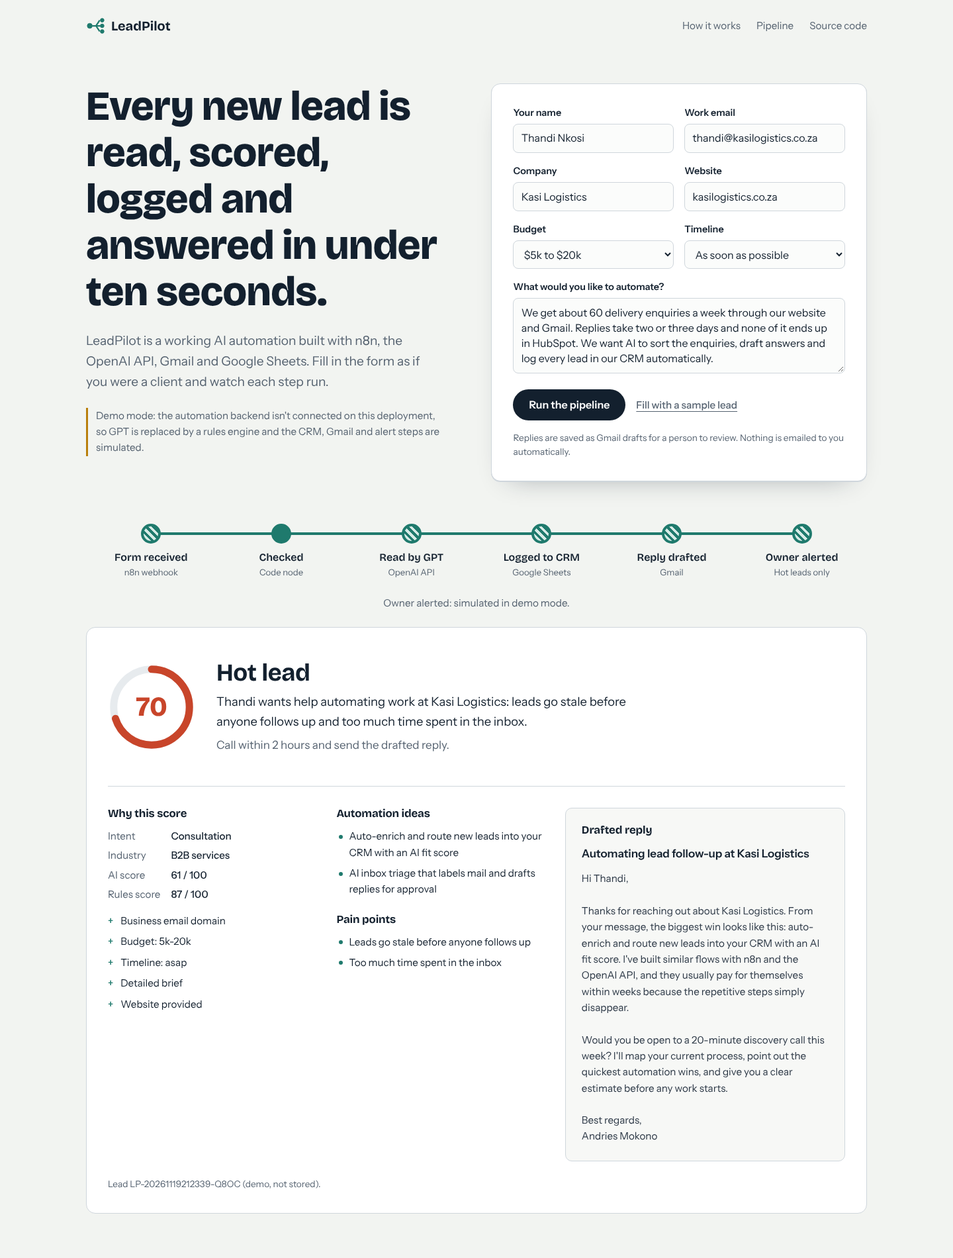
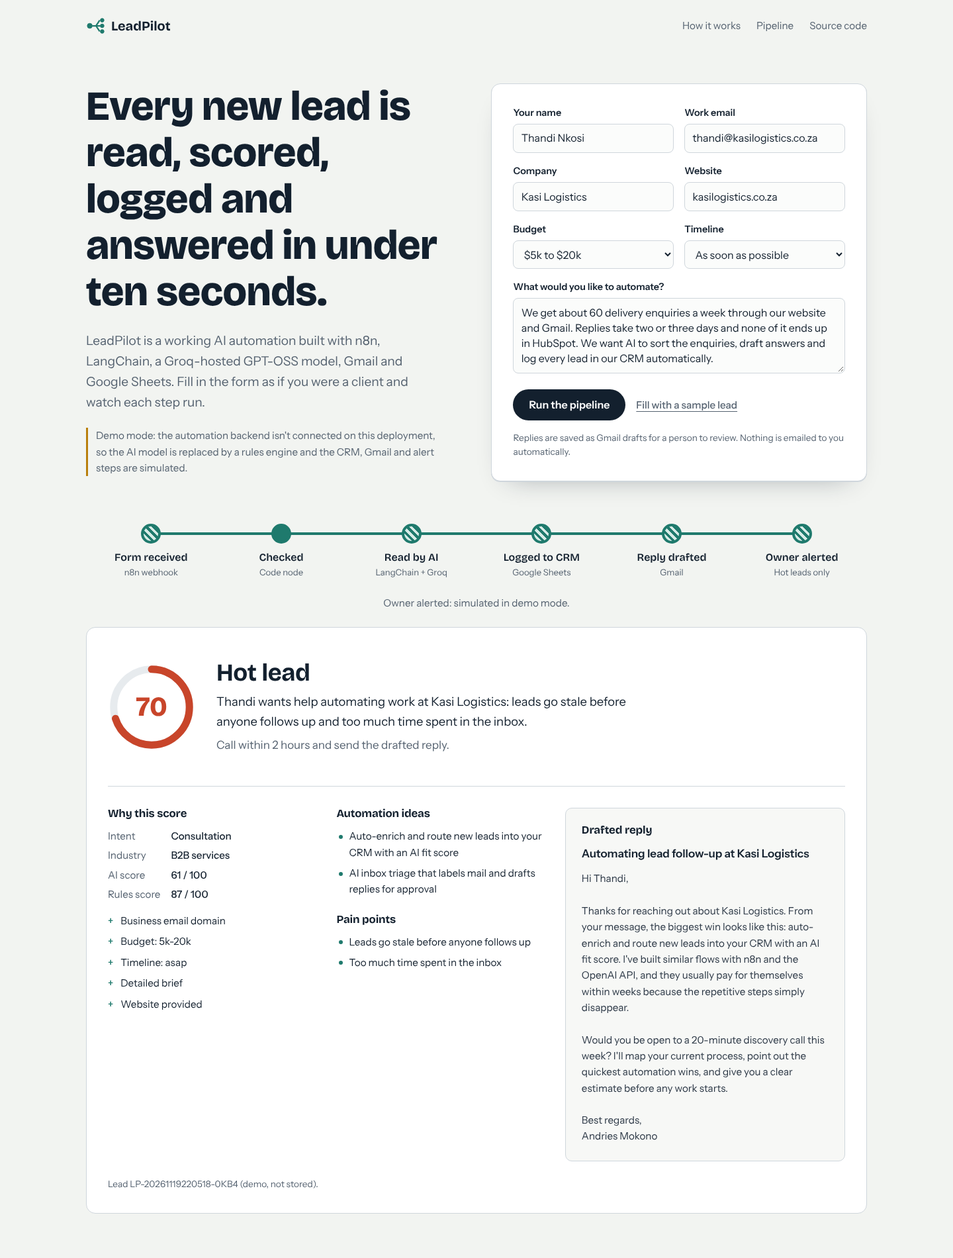
Switch AI to Groq via LangChain

Changed region(s): [[0.0938, 0.2795, 0.4688, 0.3726], [0.4062, 0.4347, 0.4688, 0.4658]]

diff --git a/public/index.html b/public/index.html
@@ -3,10 +3,10 @@
 <head>
   <meta charset="utf-8">
   <meta name="viewport" content="width=device-width, initial-scale=1">
-  <title>LeadPilot AI: inbound lead automation with n8n and OpenAI</title>
-  <meta name="description" content="A live AI automation that reads, scores, logs and answers inbound leads in seconds. Built with n8n, the OpenAI API, Gmail and Google Sheets by Andries Mokono.">
+  <title>LeadPilot AI: inbound lead automation with n8n and LangChain</title>
+  <meta name="description" content="A live AI automation that reads, scores, logs and answers inbound leads in seconds. Built with n8n, LangChain, Groq, Gmail and Google Sheets by Andries Mokono.">
   <meta property="og:title" content="LeadPilot AI: inbound leads, qualified in seconds">
-  <meta property="og:description" content="Fill in the form and watch an n8n + OpenAI pipeline score your lead, log it to a Google Sheets CRM and draft a reply.">
+  <meta property="og:description" content="Fill in the form and watch an n8n + LangChain AI pipeline score your lead, log it to a Google Sheets CRM and draft a reply.">
   <meta property="og:type" content="website">
   <link rel="icon" href="/favicon.svg" type="image/svg+xml">
   <link rel="preconnect" href="https://fonts.googleapis.com">
@@ -33,7 +33,7 @@
     <section class="hero" id="demo" aria-labelledby="hero-title">
       <div class="hero-copy">
         <h1 id="hero-title">Every new lead is read, scored, logged and answered in under ten seconds.</h1>
-        <p class="lede">LeadPilot is a working AI automation built with n8n, the OpenAI API, Gmail and Google Sheets. Fill in the form as if you were a client and watch each step run.</p>
+        <p class="lede">LeadPilot is a working AI automation built with n8n, LangChain, a Groq-hosted GPT-OSS model, Gmail and Google Sheets. Fill in the form as if you were a client and watch each step run.</p>
         <p class="mode-note" id="mode-note" hidden></p>
       </div>
 
@@ -90,7 +90,7 @@
       <ol class="route" id="route">
         <li data-step="webhook"><span class="stop"></span><strong>Form received</strong><span class="tool">n8n webhook</span></li>
         <li data-step="validate"><span class="stop"></span><strong>Checked</strong><span class="tool">Code node</span></li>
-        <li data-step="ai"><span class="stop"></span><strong>Read by GPT</strong><span class="tool">OpenAI API</span></li>
+        <li data-step="ai"><span class="stop"></span><strong>Read by AI</strong><span class="tool">LangChain + Groq</span></li>
         <li data-step="crm"><span class="stop"></span><strong>Logged to CRM</strong><span class="tool">Google Sheets</span></li>
         <li data-step="draft"><span class="stop"></span><strong>Reply drafted</strong><span class="tool">Gmail</span></li>
         <li data-step="notify"><span class="stop"></span><strong>Owner alerted</strong><span class="tool">Hot leads only</span></li>
@@ -139,18 +139,18 @@
       <div class="workflows">
         <article>
           <h3>Lead intake and qualification</h3>
-          <p>Validates the submission, asks GPT for intent, fit and a personal reply, blends that with rule-based signals into one score, appends the lead to the Sheets CRM, saves a Gmail draft and emails the owner when a lead is hot.</p>
-          <p class="stack"><span>Webhook</span><span>Code</span><span>OpenAI</span><span>Google Sheets</span><span>Gmail</span></p>
+          <p>Validates the submission, asks the LLM for intent, fit and a personal reply, blends that with rule-based signals into one score, appends the lead to the Sheets CRM, saves a Gmail draft and emails the owner when a lead is hot.</p>
+          <p class="stack"><span>Webhook</span><span>Code</span><span>LLM Chain</span><span>Groq</span><span>Google Sheets</span><span>Gmail</span></p>
         </article>
         <article>
           <h3>Inbox triage agent</h3>
           <p>An AI agent watches Gmail. It looks the sender up in the CRM, classifies the email, updates the lead's status and drafts a threaded reply. It has tools, not permission to send.</p>
-          <p class="stack"><span>Gmail trigger</span><span>AI Agent</span><span>Sheets tools</span><span>Gmail tool</span></p>
+          <p class="stack"><span>Gmail trigger</span><span>LangChain AI Agent</span><span>Sheets tools</span><span>Gmail tool</span></p>
         </article>
         <article>
           <h3>Morning pipeline briefing</h3>
-          <p>Every weekday at 07:30 it reads the CRM, works out what changed, finds hot leads nobody has contacted and emails a short GPT-written briefing.</p>
-          <p class="stack"><span>Schedule</span><span>Google Sheets</span><span>OpenAI</span><span>Gmail</span></p>
+          <p>Every weekday at 07:30 it reads the CRM, works out what changed, finds hot leads nobody has contacted and emails a short AI-written briefing.</p>
+          <p class="stack"><span>Schedule</span><span>Google Sheets</span><span>LLM Chain</span><span>Gmail</span></p>
         </article>
         <article>
           <h3>CRM API</h3>
@@ -174,11 +174,11 @@
         </div>
         <div>
           <h3>The score is part AI, part rules</h3>
-          <p>GPT judges intent and fit for 65% of the score. Budget, timeline, business email and detail make up the rest, so the number stays stable and a salesperson can see why it moved.</p>
+          <p>The AI judges intent and fit for 65% of the score. Budget, timeline, business email and detail make up the rest, so the number stays stable and a salesperson can see why it moved.</p>
         </div>
         <div>
           <h3>No secrets in the browser</h3>
-          <p>The site talks to a Vercel function, which validates input, limits bursts and calls n8n with a shared header key. OpenAI and Google credentials live only inside n8n.</p>
+          <p>The site talks to a Vercel function, which validates input, limits bursts and calls n8n with a shared header key. AI and Google credentials live only inside n8n.</p>
         </div>
         <div>
           <h3>One failed step doesn't lose the lead</h3>

diff --git a/public/app.js b/public/app.js
@@ -44,7 +44,7 @@ fetch('/api/leads').then((r) => r.json()).then((d) => {
 
 function showDemoNote() {
   const note = $('#mode-note');
-  note.textContent = 'Demo mode: the automation backend isn\'t connected on this deployment, so GPT is replaced by a rules engine and the CRM, Gmail and alert steps are simulated.';
+  note.textContent = 'Demo mode: the automation backend isn\'t connected on this deployment, so the AI model is replaced by a rules engine and the CRM, Gmail and alert steps are simulated.';
   note.hidden = false;
 }
 
@@ -75,7 +75,7 @@ async function runWaitingAnimation() {
   if (!ticking) return;
   setStop('validate', 'done');
   setStop('ai', 'active');
-  routeStatus.textContent = 'GPT is reading the message and scoring the lead.';
+  routeStatus.textContent = 'The AI is reading the message and scoring the lead.';
 }
 
 async function playActions(actions) {

diff --git a/lib/prompts.js b/lib/prompts.js
@@ -2,7 +2,7 @@
 // and injected into the workflow JSON by scripts/build-workflows.mjs.
 
 export const QUALIFY_SYSTEM = `You are LeadPilot, a senior sales-operations analyst for an AI automation agency.
-You qualify inbound leads for automation projects (n8n, Make, Zapier, AI agents, OpenAI integrations, CRM and email automation).
+You qualify inbound leads for automation projects (n8n, Make, Zapier, AI agents, OpenAI/LLM integrations, CRM and email automation).
 
 Return ONLY a JSON object with exactly these keys:
 {

diff --git a/n8n/code/parse-and-score.js b/n8n/code/parse-and-score.js
@@ -1,6 +1,6 @@
 // n8n Code node: "Parse and score" (Run once for all items)
-// Merges the validated lead with GPT's JSON and blends in rule-based signals.
-// If the OpenAI call failed (node set to continue on error) we fall back to
+// Merges the validated lead with the LLM's JSON and blends in rule-based signals.
+// If the LLM call failed (node set to continue on error) we fall back to
 // rules only, so the lead is never lost.
 /*__SCORING__*/
 

diff --git a/README.md b/README.md
@@ -2,9 +2,9 @@
 
 **Every new lead is read, scored, logged and answered in under ten seconds.**
 
-LeadPilot is a production-style AI automation system for inbound sales leads. A website form feeds an n8n pipeline that uses the OpenAI API to qualify each lead, blends the AI judgement with rule-based signals into one score, logs everything to a Google Sheets CRM, drafts a personalised Gmail reply for human approval and alerts the owner about hot leads. An AI agent triages the Gmail inbox, a scheduled workflow emails a morning pipeline briefing, and an error workflow reports failures.
+LeadPilot is a production-style AI automation system for inbound sales leads. A website form feeds an n8n pipeline whose LangChain nodes use an LLM (GPT-OSS 120B on Groq's free tier by default, or the OpenAI API) to qualify each lead, blends the AI judgement with rule-based signals into one score, logs everything to a Google Sheets CRM, drafts a personalised Gmail reply for human approval and alerts the owner about hot leads. An AI agent triages the Gmail inbox, a scheduled workflow emails a morning pipeline briefing, and an error workflow reports failures.
 
-Live demo: `https://YOUR-PROJECT.vercel.app` · Built by **[Andries Mokono](https://www.linkedin.com/in/andries-mokono)**, software engineer, applied AI (Gauteng, South Africa) · [GitHub](https://github.com/drico999)
+Live demo: https://leadpilot-ai-lilac.vercel.app · Built by **[Andries Mokono](https://www.linkedin.com/in/andries-mokono)**, software engineer, applied AI (Gauteng, South Africa) · [GitHub](https://github.com/drico999)
 
 ![LeadPilot demo](docs/screenshot-desktop.png)
 
@@ -16,12 +16,23 @@ Live demo: `https://YOUR-PROJECT.vercel.app` · Built by **[Andries Mokono](http
 |---|---|
 | n8n workflow automation | 5 importable workflows in [`n8n/workflows/`](n8n/workflows) |
 | AI agents | Inbox triage agent with 3 tools: CRM lookup, CRM update, Gmail draft (`2-inbox-agent.json`) |
-| ChatGPT / OpenAI API | GPT lead qualification in JSON mode, agent reasoning, written briefings |
+| ChatGPT / OpenAI API | LangChain LLM Chain and Agent nodes: lead qualification, agent reasoning, written briefings. Runs on Groq's OpenAI-compatible API by default; `LLM_PROVIDER=openai` switches every AI step to the OpenAI API |
 | Gmail and email automation | Gmail trigger, threaded drafts, HTML alerts and daily briefing emails |
 | CRM and lead generation | Lead capture form, AI + rules scoring, Google Sheets CRM with status tracking |
 | Google Sheets and API integrations | Append, lookup, upsert and read via n8n; REST endpoint for the dashboard; Vercel serverless API |
 | Business process automation | Full lead lifecycle: capture → qualify → log → respond → follow up → report |
 | Make / Zapier | Module-by-module mapping in [`docs/MAKE-ZAPIER.md`](docs/MAKE-ZAPIER.md) |
+
+## AI provider
+
+All AI steps use n8n's LangChain nodes (Basic LLM Chain, AI Agent) with a swappable chat-model sub-node:
+
+| `LLM_PROVIDER` | Model (default) | Credential in n8n |
+|---|---|---|
+| `groq` (default) | `openai/gpt-oss-120b`, free tier with rate limits | `Groq account` |
+| `openai` | `gpt-4.1-mini`, JSON mode on | `OpenAI account` |
+
+Change the model with `LLM_MODEL`, then run `npm run build:workflows` and re-import.
 
 ## Architecture
 
@@ -30,7 +41,7 @@ flowchart LR
   V[Visitor] -->|form| W[Website on Vercel]
   W -->|POST /api/lead| F[Vercel function<br/>validate, rate limit]
   F -->|X-LeadPilot-Key| N1[n8n: Lead intake]
-  N1 --> AI[OpenAI GPT<br/>intent, fit, reply]
+  N1 --> AI[LangChain LLM<br/>Groq or OpenAI<br/>intent, fit, reply]
   N1 --> S[(Google Sheets CRM)]
   N1 --> G[Gmail draft]
   N1 -->|hot lead| A[Owner alert email]
@@ -46,18 +57,18 @@ flowchart LR
 
 ### The five workflows
 
-1. **Lead intake and qualification**: webhook → validate → GPT (JSON mode) → score = 65% AI + 35% rules → append to CRM → alert owner if hot → Gmail draft → respond with a step-by-step trace.
+1. **Lead intake and qualification**: webhook → validate → LLM Chain → score = 65% AI + 35% rules → append to CRM → alert owner if hot → Gmail draft → respond with a step-by-step trace.
 2. **Inbox triage agent**: Gmail trigger → AI Agent with tools *Find lead in CRM*, *Update lead status*, *Draft reply* → log decision to the *Inbox Log* tab. The agent can draft but never send.
-3. **Morning pipeline briefing**: weekdays at 07:30, reads the CRM, computes stats, GPT writes a short briefing, emails an HTML summary with the leads to call first.
+3. **Morning pipeline briefing**: weekdays at 07:30, reads the CRM, computes stats, the LLM writes a short briefing, emails an HTML summary with the leads to call first.
 4. **CRM API**: authenticated GET webhook that feeds the public pipeline page. First names only, no emails or messages leave n8n.
 5. **Error alerts**: Error Trigger → formatted email with the failing node, message and execution link.
 
 ### Design decisions
 
 - **Human in the loop.** Replies are Gmail drafts. Auto-sending from a public form would let anyone use your mailbox to email strangers.
-- **Explainable scoring.** GPT supplies 65% of the score; budget, timeline, business email, detail and website supply 35%. Rules live in [`lib/scoring.js`](lib/scoring.js) and are shared by the website, the n8n Code nodes and the tests.
-- **No secrets in the browser.** The site calls a Vercel function, which validates, rate-limits and forwards with a shared header key. OpenAI and Google credentials live only in n8n.
-- **Graceful failure.** CRM and Gmail steps continue on error, so a lead is never lost and the visitor still gets a result. If GPT fails, the lead is scored on rules alone.
+- **Explainable scoring.** The LLM supplies 65% of the score; budget, timeline, business email, detail and website supply 35%. Rules live in [`lib/scoring.js`](lib/scoring.js) and are shared by the website, the n8n Code nodes and the tests.
+- **No secrets in the browser.** The site calls a Vercel function, which validates, rate-limits and forwards with a shared header key. AI and Google credentials live only in n8n.
+- **Graceful failure.** CRM and Gmail steps continue on error, so a lead is never lost and the visitor still gets a result. If the LLM fails or is rate-limited, the lead is scored on rules alone.
 - **Demo mode.** With no n8n URL configured the site still works, using a rules engine and clearly labelled simulated steps, so you can deploy the front end first.
 
 ## Repository layout
@@ -93,7 +104,7 @@ Full step-by-step guide: **[docs/DEPLOY.md](docs/DEPLOY.md)**. In short:
 1. Run n8n (n8n Cloud, or `docker compose up -d` on a small VPS).
 2. Create the Google Sheet with tabs **Leads** and **Inbox Log** (headers in `n8n/sheets-template/`).
 3. Set `OWNER_EMAIL` and `SHEET_ID` in `.env`, run `npm run build:workflows`, import the 5 JSON files into n8n.
-4. Connect the OpenAI, Gmail, Google Sheets and Header Auth credentials, then publish the workflows.
+4. Connect the Groq, Gmail, Google Sheets and Header Auth credentials, then publish the workflows.
 5. Import this repo into Vercel and set `N8N_LEAD_WEBHOOK_URL`, `N8N_LEADS_WEBHOOK_URL` and `N8N_WEBHOOK_SECRET`.
 
 ## Changing the workflows
@@ -108,8 +119,8 @@ and re-import the changed JSON into n8n. Workflow JSON is generated, so keep edi
 
 ## Testing notes
 
-- `npm test` runs the scoring rules, both API functions (demo and live, with a stubbed n8n) and every n8n Code node against realistic inputs, including OpenAI failure, spam, HTML injection and empty sheets.
-- The workflows were imported into n8n 2.48 and every node's parameters were checked against n8n's own node definitions. The lead-intake and CRM API webhooks were run end to end against a mock OpenAI endpoint. The Google Sheets, Gmail and agent tool steps need your real Google account, so test them once after connecting credentials (see the checklist in `docs/DEPLOY.md`).
+- `npm test` runs the scoring rules, both API functions (demo and live, with a stubbed n8n) and every n8n Code node against realistic inputs, including LLM failure, spam, HTML injection and empty sheets.
+- The workflows were imported into n8n 2.48 and every node's parameters were checked against n8n's own node definitions. The lead-intake and CRM API webhooks were run end to end against a mock OpenAI-compatible endpoint, and the Groq build was imported and run to confirm the rules-only fallback. The Google Sheets, Gmail and agent tool steps need your real Google account, so test them once after connecting credentials (see the checklist in `docs/DEPLOY.md`).
 
 ## License
 

diff --git a/docs/PORTFOLIO.md b/docs/PORTFOLIO.md
@@ -7,9 +7,9 @@ Ready-to-paste text for your portfolio site, CV and LinkedIn. Replace the links 
 ## Portfolio card (short)
 
 **LeadPilot AI: inbound lead automation**
-An n8n + OpenAI system that reads, scores, logs and answers every inbound lead in under ten seconds, with an AI agent that triages Gmail and a daily pipeline briefing.
-n8n · OpenAI API · AI Agents · Gmail · Google Sheets · Vercel · JavaScript
-[Live demo](https://YOUR-PROJECT.vercel.app) | [Source](https://github.com/drico999/leadpilot-ai)
+An n8n + LangChain AI system that reads, scores, logs and answers every inbound lead in under ten seconds, with an AI agent that triages Gmail and a daily pipeline briefing.
+n8n · LangChain · Groq / OpenAI API · AI Agents · Gmail · Google Sheets · Vercel · JavaScript
+[Live demo](https://leadpilot-ai-lilac.vercel.app) | [Source](https://github.com/drico999/leadpilot-ai)
 
 ## Case study (long)
 
@@ -17,9 +17,9 @@ n8n · OpenAI API · AI Agents · Gmail · Google Sheets · Vercel · JavaScript
 
 **What I built.** Five n8n workflows that cover the lead lifecycle:
 
-- **Lead intake.** A website form posts to a secured n8n webhook. GPT (JSON mode) reads the message for intent, industry, pain points and fit, and drafts a personal reply. The workflow blends the AI score with deterministic signals (budget, timeline, business email) into one explainable 0–100 score, logs the lead to a Google Sheets CRM, saves the reply as a Gmail draft and emails the owner when a lead is hot.
+- **Lead intake.** A website form posts to a secured n8n webhook. An LLM (LangChain, GPT-OSS 120B on Groq, switchable to the OpenAI API) reads the message for intent, industry, pain points and fit, and drafts a personal reply. The workflow blends the AI score with deterministic signals (budget, timeline, business email) into one explainable 0–100 score, logs the lead to a Google Sheets CRM, saves the reply as a Gmail draft and emails the owner when a lead is hot.
 - **Inbox triage agent.** An n8n AI Agent with three tools (CRM lookup, CRM update, Gmail draft) classifies incoming email, updates lead status and drafts threaded replies. It can draft but never send.
-- **Morning briefing.** Every weekday the CRM is summarised into stats and a GPT-written briefing listing the hot leads nobody has contacted.
+- **Morning briefing.** Every weekday the CRM is summarised into stats and an AI-written briefing listing the hot leads nobody has contacted.
 - **CRM API and dashboard.** A read-only endpoint, masked for privacy, powers a public pipeline page.
 - **Error alerts.** Any failure emails the failing node and a link to the execution.
 
@@ -27,14 +27,14 @@ n8n · OpenAI API · AI Agents · Gmail · Google Sheets · Vercel · JavaScript
 - Human approval on every outbound email, to avoid turning a public form into a spam relay.
 - Scoring rules live in one JavaScript module shared by the website, the n8n Code nodes and the test suite; workflow JSON is generated from readable sources.
 - Credentials never reach the browser: a Vercel function validates input, limits bursts and calls n8n with a shared header key.
-- Every non-critical step continues on error, so a lead is never lost; if GPT is down the lead is scored on rules alone.
-- 32 automated tests, including OpenAI failure, spam, HTML injection and empty-sheet cases.
+- Every non-critical step continues on error, so a lead is never lost; if the LLM is down or rate-limited the lead is scored on rules alone.
+- 32 automated tests, including LLM failure, spam, HTML injection and empty-sheet cases.
 
 **Result.** A visitor gets a scored, personalised response path in seconds; the owner gets a ready-to-send draft, a CRM row and, for hot leads, an alert, with no manual data entry.
 
 ## CV bullet points
 
-- Built LeadPilot AI, an n8n + OpenAI lead automation system: GPT qualification in JSON mode, hybrid AI/rules scoring, Google Sheets CRM, Gmail drafts and hot-lead alerts, deployed with a Vercel front end.
+- Built LeadPilot AI, an n8n + LangChain lead automation system: LLM qualification (Groq or OpenAI API), hybrid AI/rules scoring, Google Sheets CRM, Gmail drafts and hot-lead alerts, deployed with a Vercel front end.
 - Designed an n8n AI Agent with CRM and Gmail tools that triages the inbox, updates lead status and drafts threaded replies with human approval.
 - Generated n8n workflows from tested JavaScript sources (32 tests) and secured webhooks with header auth, rate limiting and PII masking.
 
@@ -42,14 +42,14 @@ n8n · OpenAI API · AI Agents · Gmail · Google Sheets · Vercel · JavaScript
 
 I built an AI automation that answers new leads before they go cold.
 
-LeadPilot reads every enquiry from a website form, asks GPT what the person actually wants, scores the lead (65% AI judgement, 35% hard rules like budget and timeline), logs it to a Google Sheets CRM and drafts a personal reply in Gmail. Hot leads trigger an alert. An AI agent also watches the inbox, checks the CRM and drafts replies, and every weekday morning I get a briefing of who to call first.
+LeadPilot reads every enquiry from a website form, asks an AI model what the person actually wants, scores the lead (65% AI judgement, 35% hard rules like budget and timeline), logs it to a Google Sheets CRM and drafts a personal reply in Gmail. Hot leads trigger an alert. An AI agent also watches the inbox, checks the CRM and drafts replies, and every weekday morning I get a briefing of who to call first.
 
-Built with n8n, the OpenAI API, Gmail, Google Sheets and Vercel. Every email is a draft, so a person always approves what goes out.
+Built with n8n, LangChain, Groq (swappable for the OpenAI API), Gmail, Google Sheets and Vercel. Every email is a draft, so a person always approves what goes out.
 
-Try the live demo: https://YOUR-PROJECT.vercel.app
+Try the live demo: https://leadpilot-ai-lilac.vercel.app
 Source: https://github.com/drico999/leadpilot-ai
 
-#n8n #AIAutomation #OpenAI #WorkflowAutomation #AIAgents
+#n8n #AIAutomation #LangChain #Groq #WorkflowAutomation #AIAgents
 
 ## DM reply to a recruiter (for the WorkAtlas post)
 
@@ -57,7 +57,7 @@ Hi Gurpreet, I saw your post about freelance AI Automation Specialists and would
 
 I'm a software engineer in Gauteng focused on applied AI. My most recent project, LeadPilot AI, covers most of the skills you listed: n8n workflows, an AI agent with Gmail and Google Sheets tools, OpenAI API integration, CRM and lead-gen automation, and email automation.
 
-Live demo: https://YOUR-PROJECT.vercel.app
+Live demo: https://leadpilot-ai-lilac.vercel.app
 Source and write-up: https://github.com/drico999/leadpilot-ai
 LinkedIn: https://www.linkedin.com/in/andries-mokono
 

diff --git a/docs/DEPLOY.md b/docs/DEPLOY.md
@@ -3,7 +3,7 @@
 Plan for about 60–90 minutes the first time. You'll end up with:
 
 - the website on Vercel (free Hobby plan is enough), and
-- the automation backend on n8n, connected to OpenAI, Gmail and Google Sheets.
+- the automation backend on n8n, connected to Groq (free AI), Gmail and Google Sheets.
 
 You can do part A alone first: the site works in **demo mode** until n8n is connected.
 
@@ -49,9 +49,9 @@ Pick one:
    OWNER_EMAIL=you@yourdomain.com
    OWNER_NAME=Andries Mokono
    SHEET_ID=<the id from step C>
-   OPENAI_MODEL=gpt-4.1-mini
+   LLM_PROVIDER=groq
    ```
-   Any current OpenAI chat model that supports JSON mode works; change `OPENAI_MODEL` if you prefer another.
+   Groq's free tier runs `openai/gpt-oss-120b` by default. To use the OpenAI API instead, set `LLM_PROVIDER=openai` (and optionally `LLM_MODEL`).
 2. Build:
    ```bash
    npm run build:workflows
@@ -65,7 +65,7 @@ Open **Credentials → Add credential** and create these four. Use exactly these
 
 | Credential name | Type | What to enter |
 |---|---|---|
-| `OpenAI account` | OpenAI | API key from platform.openai.com (add a small spend limit) |
+| `Groq account` | Groq | Free API key from console.groq.com → API Keys (or `OpenAI account` / OpenAI if you set `LLM_PROVIDER=openai`) |
 | `Gmail account` | Gmail OAuth2 | Sign in with Google (on self-hosted n8n you need a Google Cloud OAuth client first; see n8n's Google credentials docs) |
 | `Google Sheets account` | Google Sheets OAuth2 | Same Google account |
 | `LeadPilot webhook key` | Header Auth | Name: `X-LeadPilot-Key`, Value: a long random string (`openssl rand -hex 24`) |
@@ -102,9 +102,9 @@ Then set the error workflow: open workflows 1–4 → **Settings → Error workf
 | Site says "Automation backend returned 403" | The header key in Vercel doesn't match the n8n Header Auth credential. |
 | "Automation backend returned 404" | Workflow 1 isn't published, or you used the Test URL instead of the Production URL. |
 | Route shows "Logged to CRM: failed" | Tab names must be exactly `Leads` and `Inbox Log`; check `SHEET_ID` and the Sheets credential. |
-| "Read by GPT: failed" | Check the OpenAI key, billing and model name. Leads are still saved, scored on rules only. |
+| "Read by AI: failed" | Check the Groq key and model name, or the free-tier rate limit (wait a minute). Leads are still saved, scored on rules only. |
 | Gmail steps fail on self-hosted n8n | Enable the Gmail API in your Google Cloud project and add your account as a test user. |
 
 ## Costs
 
-Vercel Hobby and a Google account are free. OpenAI usage for this pipeline is a fraction of a US cent per lead with a mini model. n8n is free to self-host (you pay for the server) or a monthly plan on n8n Cloud.
+Vercel Hobby and a Google account are free. Groq's free tier covers portfolio traffic (it is rate-limited); with OpenAI, usage is a fraction of a US cent per lead with a mini model. n8n is free to self-host (you pay for the server) or a monthly plan on n8n Cloud.
